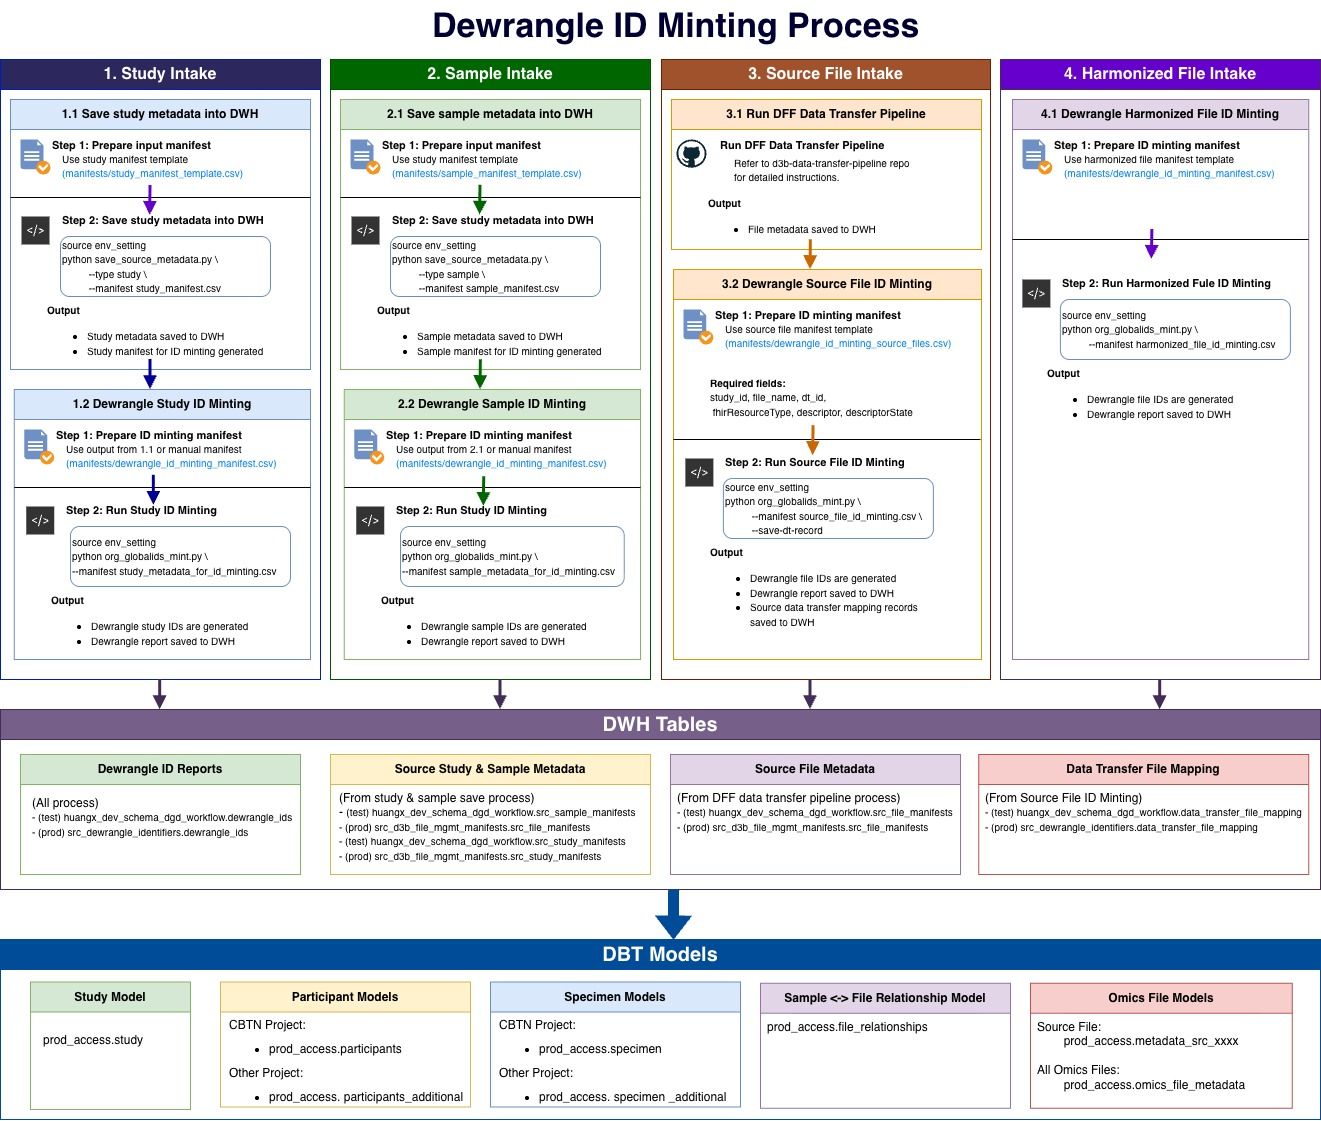
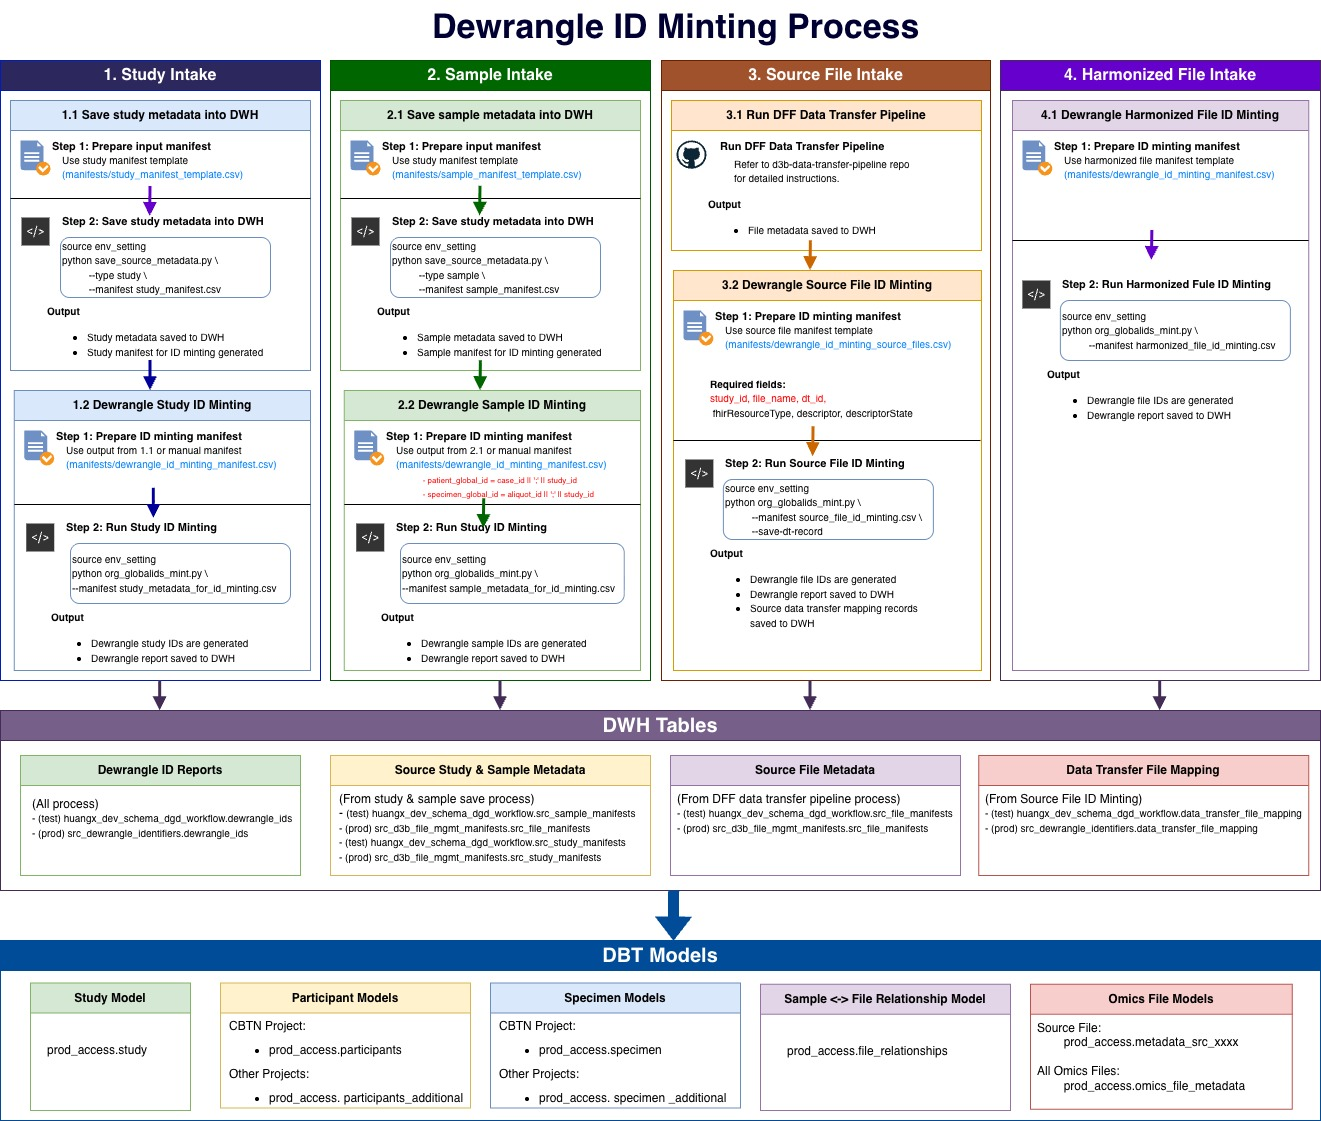
🧑💻 Update process

diff --git a/org_globalids_mint.py b/org_globalids_mint.py
@@ -531,7 +531,7 @@ def save_data_transfer_manpping(
         on=["fhirResourceType", "descriptor", "descriptorState"],
         how="inner"
     )
-    merged_df = merged_df[["file_name", "dt_id", "global_id"]]
+    merged_df = merged_df[["study_id","file_name", "dt_id", "global_id"]]
     save_df_to_db(conn, merged_df, schema_name, table_name, primary_key_cols)
 
 
@@ -541,18 +541,40 @@ def save_data_transfer_manpping(
 def parse_args():
     parser = argparse.ArgumentParser(description="Create and download org-level global IDs from Dewrangle.")
     parser.add_argument(
+        "--env",
+        choices=["prod", "qa"],
+        help="Environment to use (prod or qa). Determines default organization_id if not set explicitly."
+    )
+    parser.add_argument(
         "--organization_id",
-        default="T3JnYW5pemF0aW9uOmNsZHN4MzRrbjAwMTRnMGVzY3JndzUzYWQ=",  # default Kids First organization ID for the ID minting
-        help="Dewrangle Organization ID (default: %(default)s)"
+        default=None,
+        help="Dewrangle Organization ID. Overrides --env default if provided."
     )
     parser.add_argument("--manifest", required=True, help="Path to input manifest CSV file")
     parser.add_argument("--save-dt-record", action="store_true", help="If set, save data transfer mapping record to DWH")
     parser.add_argument("--output_dir", default=None, help="Optional output directory for downloaded CSV")
-    return parser.parse_args()
+    
+    args = parser.parse_args()
+
+    # Set organization_id based on env if not explicitly provided
+    if args.organization_id:
+        org_message = f"🛠 Using custom organization_id for ID minting: {args.organization_id}"
+    elif args.env == "prod":
+        args.organization_id = "T3JnYW5pemF0aW9uOmNsZHN4MzRrbjAwMTRnMGVzY3JndzUzYWQ=" # Dewrangle Kids First organization ID for the ID minting
+        org_message = "🚀 Using Kids First prod Dewrangle organization for ID minting"
+    elif args.env == "qa":
+        args.organization_id = "T3JnYW5pemF0aW9uOmNta2x6ejhleDAwMWxqejAxNHQyOWl1ZXA=" # Dewrangle test-dewrangle-ids organization ID for the ID minting
+        org_message = "🧪 Using test-dewrangle-ids organization for ID minting"
+    else:
+        parser.error("Either --organization_id must be set or --env must be 'prod' or 'qa'.")
+    
+    args.org_message = org_message
+    return args
+
 
 def main():
     args = parse_args()
-
+    print(args.org_message)
     manifest_path = Path(args.manifest).resolve()
 
     # --- Step 1: Read and validate manifest ---
@@ -598,9 +620,7 @@ def main():
         job_id=job_id,
         output_dir = args.output_dir
     )
-    
-    # filepath = 'dewrangle-job-globalids-20260324-0413.csv'
-    
+
     # Step 7: Save to dewrangle ids to warehouse
     print(f"🗂 Saving dewrangle IDs report to DB...")
     save_dewrangle_ids(conn, filepath)

diff --git a/save_source_metadata.py b/save_source_metadata.py
@@ -197,18 +197,23 @@ def main():
             })
 
     elif type == "sample":
-        patient_ids = set(df['case_id'].dropna())
-        specimen_ids = set(df['aliquot_id'].dropna())
-        for pid in patient_ids:
+        df_nonan = df.dropna(subset=['case_id', 'aliquot_id'])
+        patient_ids = set(zip(df_nonan['study_id'], df_nonan['case_id']))
+        specimen_ids = set(zip(df_nonan['study_id'], df_nonan['aliquot_id']))
+
+        # Add Patient resources
+        for study_id, pid in patient_ids:
             rows.append({
                 "fhirResourceType": "Patient",
                 "descriptor": str(pid),
+                "descriptor": f"{pid};{study_id}",  # optional: include study_id in descriptor
                 "descriptorState": "ACTIVE"
             })
-        for sid in specimen_ids:
+        # Add Specimen resources
+        for study_id, sid in specimen_ids:
             rows.append({
                 "fhirResourceType": "Specimen",
-                "descriptor": str(sid),
+                "descriptor": f"{sid};{study_id}",  # optional: include study_id in descriptor
                 "descriptorState": "ACTIVE"
             })
     else:

diff --git a/README.md b/README.md
@@ -22,7 +22,7 @@ Create a manifest useing the study manifest template: [`manifests/study_manifest
 source env_setting
 
 # save study manifest
-python save_source_metadata.py --type study --manifest study_manifest.csv
+python save_source_metadata.py --type study test_data/test_study_manifest.csv
 ```
 
 Output:
@@ -31,6 +31,13 @@ Output:
   - (prod)  `src_d3b_file_mgmt_manifests.src_study_manifests`
 - A study manifest for ID minting is generated:
   - `study_metadata_for_id_minting.csv`
+
+Example Logs:
+```
+2026-05-03 03:59:26 | INFO | ✅ Insert 2 rows into huangx_dev_schema_dgd_workflow.src_study_manifests
+
+2026-05-03 03:59:26 | INFO | ✅ Generated study_metadata_for_id_minting.csv for dewrangle ID minting.
+```
 
 ### 1.2 Dewrangle Study ID Minting Process
 #### Step 1: Prepare ID minting manifest
@@ -45,15 +52,42 @@ Use either:
 source env_setting
 
 # study id minting
-python org_globalids_mint.py --manifest study_id_minting.csv
+python org_globalids_mint.py --env qa --manifest study_metadata_for_id_minting.csv
 ```
 
-Output:
+| Argument | Description |
+|----------|-------------|
+| `--env` | Environment for ID minting. Determines which Dewrangle organization ID is used if `--organization_id` is not set. Options: <br>• `prod` → Uses the KF production Dewrangle organization for minting IDs. <br>• `qa` → Uses the test Dewrangle organization for testing purposes. |
+| `--manifest` | Path to the input manifest CSV file. |
+| `--organization_id` | *(Optional)* Explicit Dewrangle organization ID to use. Overrides the `--env` default if provided. |
+
+**Output**:
 - Dewrangle study IDs are generated
 - Dewrangle report is saved into the DWH
   - (test)  `huangx_dev_schema_dgd_workflow.dewrangle_ids`
   - (prod)  `src_dewrangle_identifiers.dewrangle_ids`
 
+Example Logs:
+```
+🧪 Using test-dewrangle-ids organization for ID minting
+✅ Manifest read successfully with 2 rows.
+🔗 Upload URL: https://dewrangle.com/api/rest/organizations/T3JnYW5pemF0aW9uOmNta2x6ejhleDAwMWxqejAxNHQyOWl1ZXA=/files/study_metadata_for_id_minting.csv
+🆔 Uploaded file ID: T3JnYW5pemF0aW9uRmlsZTowMTlkZWMxMC04YThlLTc1NWItYTU2MS0wOTQxNGQyMzE0MTU=
+✅ Uploaded file 'study_metadata_for_id_minting.csv' to organization successfully!
+🚀 Job submitted: Sm9iOmNtb3A5aTJ2ZTAwMGtsaDAxaXU1azAxZXg=
+Waiting for job to complete...
+✅ Job completed at: None
+🌐 Dewrangle job global-identifiers report URL:  https://dewrangle.com//api/rest/organizations/T3JnYW5pemF0aW9uOmNta2x6ejhleDAwMWxqejAxNHQyOWl1ZXA=/global-identifiers?job=Sm9iOmNtb3A5aTJ2ZTAwMGtsaDAxaXU1azAxZXg=
+⏳ Response empty. Waiting 5s...
+⏳ Response empty. Waiting 5s...
+⏳ Response empty. Waiting 5s...
+⏳ Response empty. Waiting 5s...
+⏳ Response empty. Waiting 5s...
+📥 Downloaded job global IDs report: /home/ubuntu/work/github/dewrangle-id-minting-process/data/dewrangle-job-globalids-20260503-0420.csv
+🗂 Saving dewrangle IDs report to DB...
+✅ Insert completed for huangx_dev_schema_dgd_workflow.dewrangle_ids
+🎉 All completed!
+```
 ## 2. Sample Intake Process
 
 ### 2.1 Save Sample Metadata into DWH
@@ -75,7 +109,7 @@ Required fields:
 source env_setting
 
 # save sample manifest
-python save_source_metadata.py --type sample --manifest sample_manifest.csv
+python save_source_metadata.py --type sample --manifest test_data/test_sample_manifest.csv
 ```
 
 Output:
@@ -84,6 +118,15 @@ Output:
   - (prod)  `src_d3b_file_mgmt_manifests.src_sample_manifests`
 - A study manifest for ID minting is generated:
   - `sample_metadata_for_id_minting.csv`
+    - `descriptor = case_id || ';' || study_id`
+    - `descriptor = aliquot_id || ';' || study_id`
+
+Example Logs:
+```
+2026-05-03 04:33:05 | INFO | ✅ Insert 5 rows into huangx_dev_schema_dgd_workflow.src_sample_manifests
+
+2026-05-03 04:33:05 | INFO | ✅ Generated sample_metadata_for_id_minting.csv for dewrangle ID minting.
+```
 
 ### 2.2 Dewrangle Sample ID Minting Process
 
@@ -92,8 +135,12 @@ Output:
 Use either:
 - Output from step 2.1, or
 - A manually prepared manifest based on: [`manifests/dewrangle_id_minting_manifest.csv`](manifests/dewrangle_id_minting_manifest.csv)
-  - Paticipant ID minting: `fhirResourceType = 'Patient'`
-  - Biospecimen ID minting: `ffhirResourceType = 'Specimen'`
+  - Paticipant ID minting: 
+    - `fhirResourceType = 'Patient'`
+    - `descriptor = case_id || ';' || study_id`
+  - Biospecimen ID minting: 
+    - `ffhirResourceType = 'Specimen'`
+    - `descriptor = aliquot_id || ';' || study_id`
 
 #### Step 2: Run ID minting
 
@@ -102,7 +149,7 @@ Use either:
 source env_setting
 
 # sample id minting
-python org_globalids_mint.py --manifest sample_id_minting.csv
+python org_globalids_mint.py --env qa --manifest sample_metadata_for_id_minting.csv
 ```
 
 Output:
@@ -110,6 +157,28 @@ Output:
 - Dewrangle report is saved into the DWH
   - (test)  `huangx_dev_schema_dgd_workflow.dewrangle_ids`
   - (prod)  `src_dewrangle_identifiers.dewrangle_ids`
+
+Example Logs:
+```
+🧪 Using test-dewrangle-ids organization for ID minting
+✅ Manifest read successfully with 9 rows.
+🔗 Upload URL: https://dewrangle.com/api/rest/organizations/T3JnYW5pemF0aW9uOmNta2x6ejhleDAwMWxqejAxNHQyOWl1ZXA=/files/sample_metadata_for_id_minting.csv
+🆔 Uploaded file ID: T3JnYW5pemF0aW9uRmlsZTowMTlkZWM0ZC0xOTUwLTc1MGUtOGVjNC1lYzM3NzY1NzFjMWE=
+✅ Uploaded file 'sample_metadata_for_id_minting.csv' to organization successfully!
+🚀 Job submitted: Sm9iOmNtb3BidjUzeTAwMG1saDAxa2xybnN0MDE=
+Waiting for job to complete...
+✅ Job completed at: None
+🌐 Dewrangle job global-identifiers report URL:  https://dewrangle.com//api/rest/organizations/T3JnYW5pemF0aW9uOmNta2x6ejhleDAwMWxqejAxNHQyOWl1ZXA=/global-identifiers?job=Sm9iOmNtb3BidjUzeTAwMG1saDAxa2xybnN0MDE=
+⏳ Response empty. Waiting 5s...
+⏳ Response empty. Waiting 5s...
+⏳ Response empty. Waiting 5s...
+⏳ Response empty. Waiting 5s...
+⏳ Response empty. Waiting 5s...
+📥 Downloaded job global IDs report: /home/ubuntu/work/github/dewrangle-id-minting-process/data/dewrangle-job-globalids-20260503-0526.csv
+🗂 Saving dewrangle IDs report to DB...
+✅ Insert completed for huangx_dev_schema_dgd_workflow.dewrangle_ids
+🎉 All completed!
+```
 
 ## 3. Source File Intake Process
 
@@ -141,8 +210,12 @@ Output:
 source env_setting
 
 # source file id minting
-python org_globalids_mint.py --manifest source_file_id_minting.csv --save-dt-record
+python org_globalids_mint.py --env qa --save-dt-record --manifest test_data/source_file_metadata_for_id_minting.csv 
 ```
+
+| Argument | Description |
+|----------|-------------|
+| `--save-dt-record` | Only required for source file ID minting, saves the data transfer mapping record to the DWH. |
 
 Output:
 - Dewrangle file IDs are generated
@@ -153,6 +226,29 @@ Output:
   - (test)  `huangx_dev_schema_dgd_workflow.data_transfer_file_mapping`
   - (prod)  `src_dewrangle_identifiers.data_transfer_file_mapping`
 
+Example Logs:
+```
+🧪 Using test-dewrangle-ids organization for ID minting
+✅ Manifest read successfully with 6 rows.
+🔗 Upload URL: https://dewrangle.com/api/rest/organizations/T3JnYW5pemF0aW9uOmNta2x6ejhleDAwMWxqejAxNHQyOWl1ZXA=/files/source_file_metadata_for_id_minting.csv
+🆔 Uploaded file ID: T3JnYW5pemF0aW9uRmlsZTowMTlkZWM2Yy1mMmJlLTc3NWEtOWZlYS1kNzRmMjBkZDhkMzk=
+✅ Uploaded file 'source_file_metadata_for_id_minting.csv' to organization successfully!
+🚀 Job submitted: Sm9iOmNtb3BkM3ZuejAwMG9saDAxc3NlbzduYmI=
+Waiting for job to complete...
+✅ Job completed at: None
+🌐 Dewrangle job global-identifiers report URL:  https://dewrangle.com//api/rest/organizations/T3JnYW5pemF0aW9uOmNta2x6ejhleDAwMWxqejAxNHQyOWl1ZXA=/global-identifiers?job=Sm9iOmNtb3BkM3ZuejAwMG9saDAxc3NlbzduYmI=
+⏳ Response empty. Waiting 5s...
+⏳ Response empty. Waiting 5s...
+⏳ Response empty. Waiting 5s...
+⏳ Response empty. Waiting 5s...
+⏳ Response empty. Waiting 5s...
+📥 Downloaded job global IDs report: /home/ubuntu/work/github/dewrangle-id-minting-process/data/dewrangle-job-globalids-20260503-0601.csv
+🗂 Saving dewrangle IDs report to DB...
+✅ Insert completed for huangx_dev_schema_dgd_workflow.dewrangle_ids
+🗂 Saving Data Transfer Records to DB...
+✅ Insert completed for huangx_dev_schema_dgd_workflow.data_transfer_file_mapping
+🎉 All completed!
+```
 ## 4. Harmonized File Intake Process
 
 #### Step 1: Prepare input manifest
@@ -166,7 +262,7 @@ Output:
 source env_setting
 
 # harmonized file id minting
-python org_globalids_mint.py --manifest harmonized_file_id_minting.csv
+python org_globalids_mint.py --env qa --manifest harmonized_file_id_minting.csv
 ```
 
 Output:
